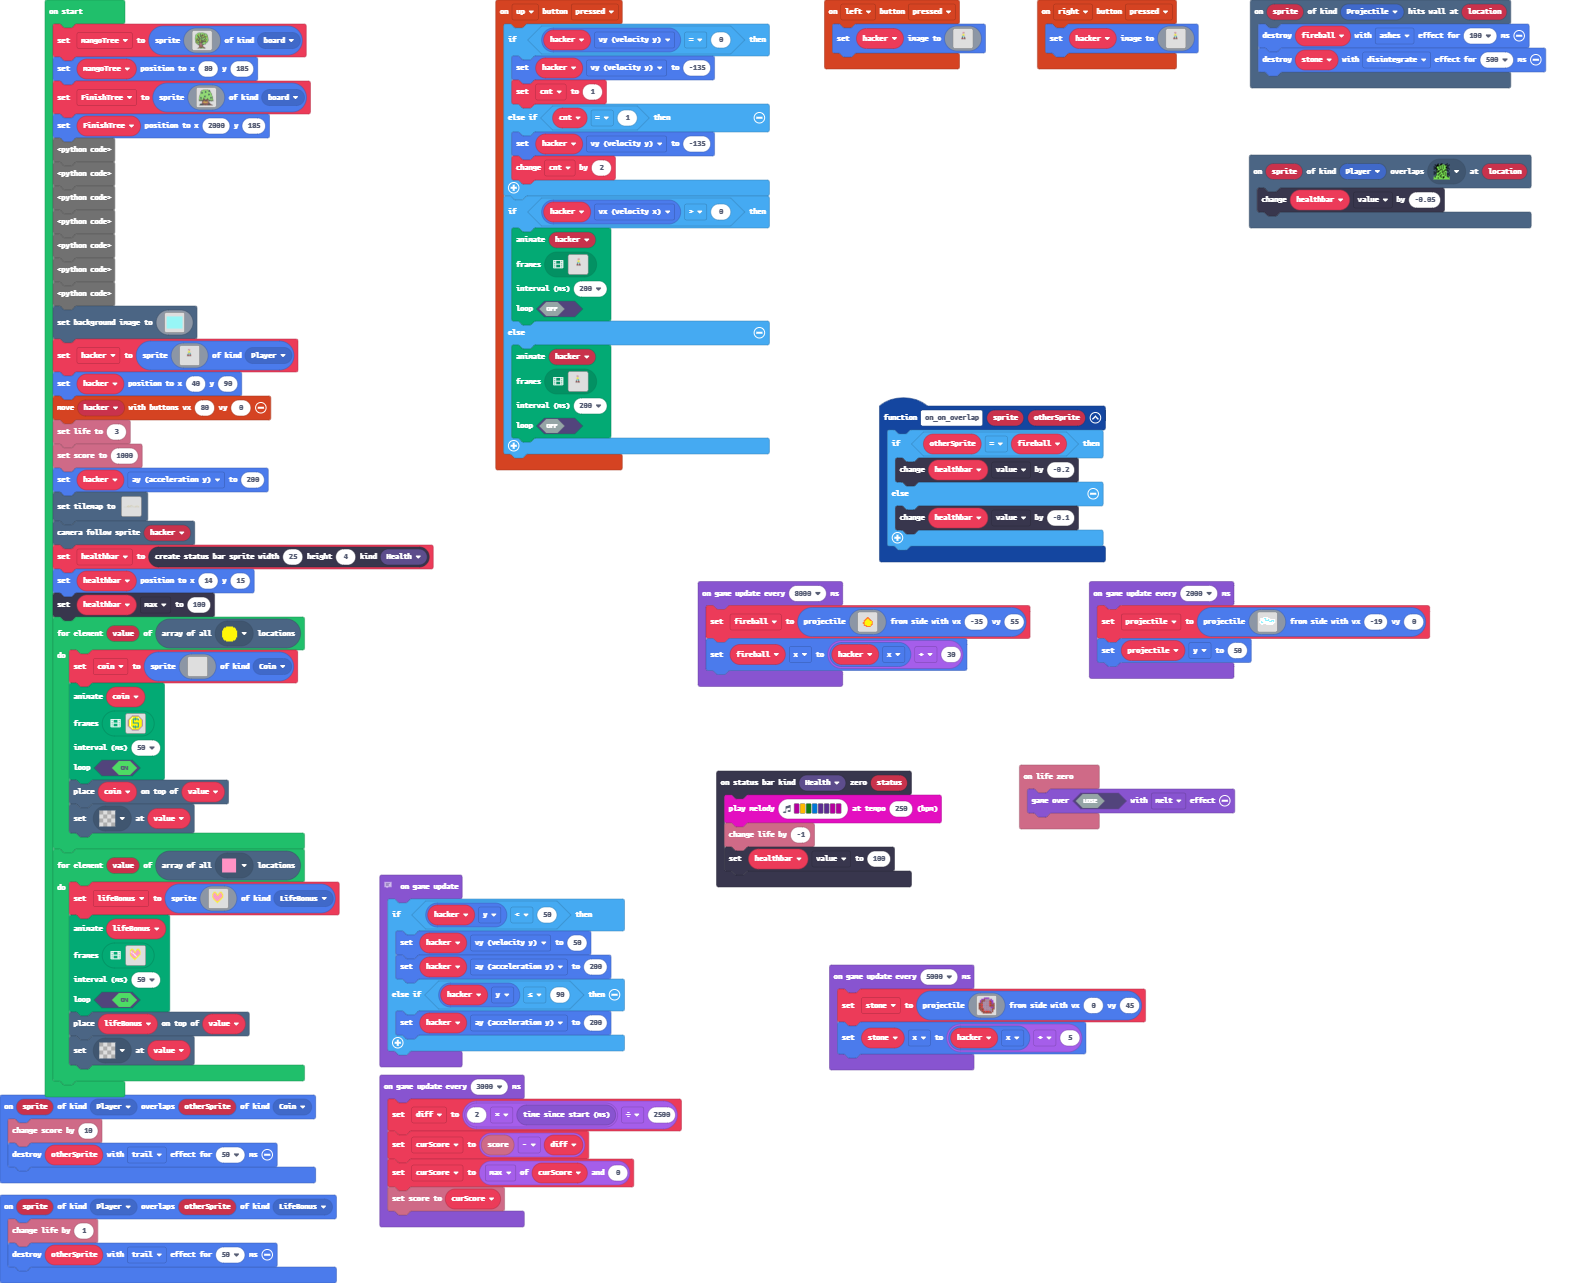
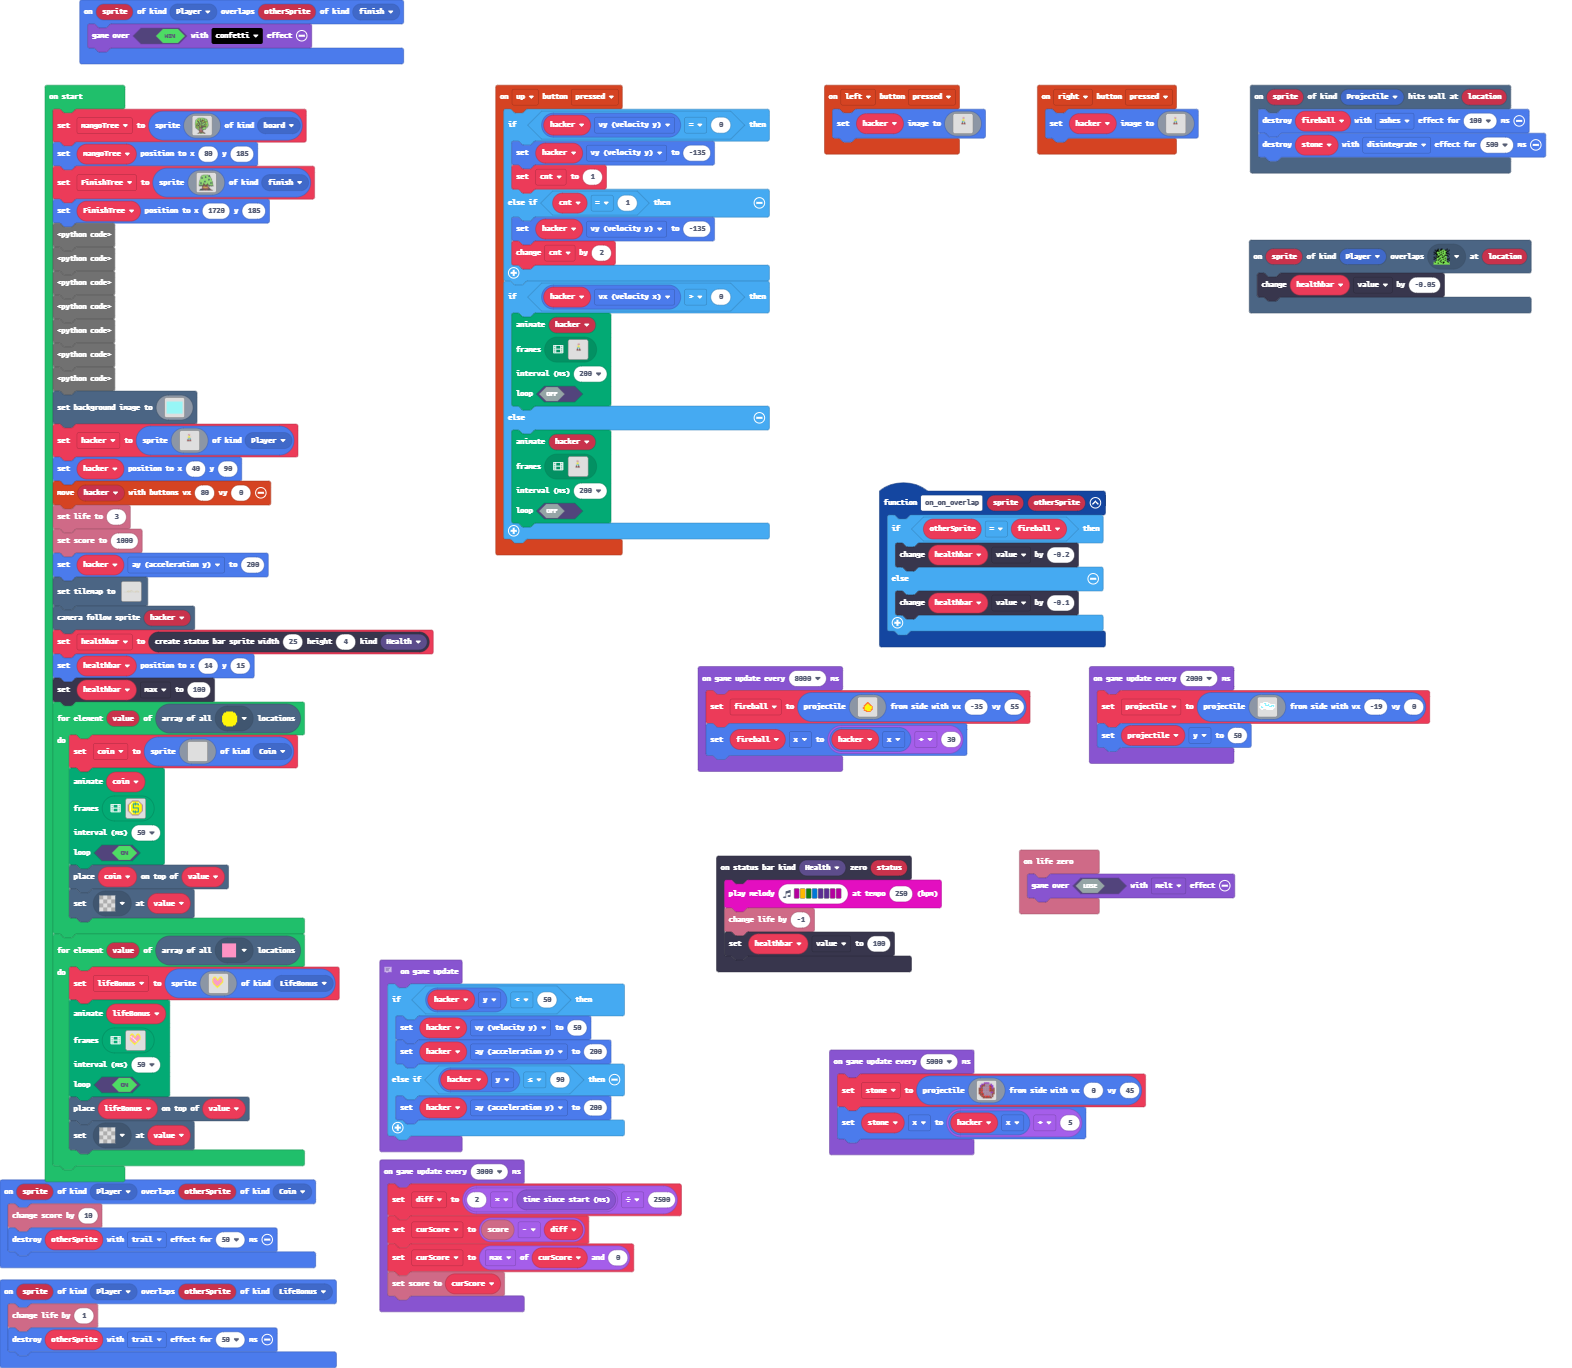
Update main.blocks, main.ts

diff --git a/main.ts b/main.ts
@@ -4,6 +4,7 @@ namespace SpriteKind {
     export const board = SpriteKind.create()
     export const Coin = SpriteKind.create()
     export const LifeBonus = SpriteKind.create()
+    export const finish = SpriteKind.create()
 }
 sprites.onOverlap(SpriteKind.Player, SpriteKind.LifeBonus, function (sprite, otherSprite) {
     info.changeLifeBy(1)
@@ -32,6 +33,9 @@ controller.up.onEvent(ControllerButtonEvent.Pressed, function () {
         false
         )
     }
+})
+sprites.onOverlap(SpriteKind.Player, SpriteKind.finish, function (sprite, otherSprite) {
+    game.over(true, effects.confetti)
 })
 sprites.onOverlap(SpriteKind.Player, SpriteKind.Coin, function (sprite, otherSprite) {
     info.changeScoreBy(10)
@@ -75,8 +79,8 @@ let coin: Sprite = null
 let hacker: Sprite = null
 let mangoTree = sprites.create(assets.image`mangoTree`, SpriteKind.board)
 mangoTree.setPosition(80, 185)
-let FinishTree = sprites.create(assets.image`finish Tree1`, SpriteKind.board)
-FinishTree.setPosition(2000, 185)
+let FinishTree = sprites.create(assets.image`finish Tree1`, SpriteKind.finish)
+FinishTree.setPosition(1720, 185)
 let healthbar : StatusBarSprite = null
 let stone : Sprite = null
 sprites.onOverlap(SpriteKind.Player, SpriteKind.Projectile, on_on_overlap)
